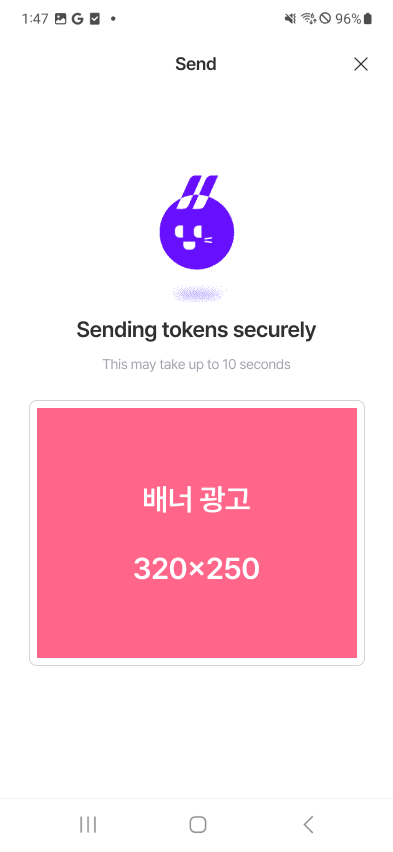
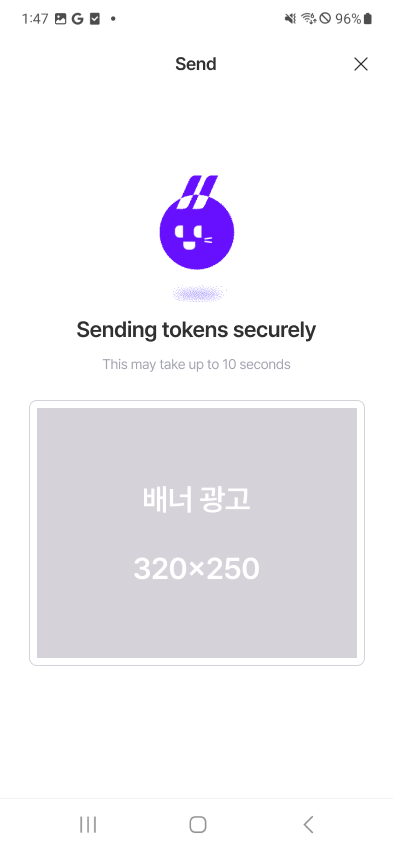
Mychain 아이콘 범례와 컴포넌트 세부 수정
- 아이콘 범례 색을 실제 색으로 맞추고 Utility를 규칙별로 나눠 정리
- Clear 아이콘 Hover를 회색 버전으로 변경, Lock 아이콘 삭제
- Input 높이 56px 통일, 토큰 아이콘을 Figma 원본으로 교체
- 전송 중 화면 배너광고 영역을 그레이로 교체
- Icon 소개 문구 수정

Changed region(s): [[0.0916, 0.4577, 0.916, 0.7934]]

diff --git a/projects/mychain.html b/projects/mychain.html
@@ -440,7 +440,7 @@
       <div class="sg-row">
         <div class="sg-head">
           <h3>Icon</h3>
-          <p>40 · 24 · 20px 세 가지 크기의 라인 아이콘을 직접 그렸습니다. 모든 아이콘에 Default · Hover · Disable 상태를 정의해, 누르는 순간 보라색으로 바뀌는 규칙을 일관되게 적용했습니다.</p>
+          <p>40 · 24 · 20px 세 가지 크기의 라인 아이콘을 직접 그렸습니다. 쓰임새에 따라 내비게이션 · 설정 · 유틸리티 · 상태 아이콘으로 나누고, 그룹마다 상태 변화 규칙을 정해 아래 범례로 정리했습니다.</p>
           <div class="ic-sizes">
             <span><i style="width:40px;height:40px"></i>40</span>
             <span><i style="width:24px;height:24px"></i>24</span>
@@ -457,9 +457,9 @@
               <div class="ic-pair"><img src="../images/mychain/svg/icons/home--home.svg" alt=""><img src="../images/mychain/svg/icons/home--home-hover.svg" alt=""><span>Home</span></div>
               <div class="ic-pair"><img src="../images/mychain/svg/icons/menu--menu.svg" alt=""><img src="../images/mychain/svg/icons/menu--menu-hover.svg" alt=""><span>Menu</span></div>
               <div class="ic-pair"><img src="../images/mychain/svg/icons/menu--close-black.svg" alt=""><img src="../images/mychain/svg/icons/menu--close-hover.svg" alt=""><span>Close</span></div>
-              <div class="ic-pair"><img src="../images/mychain/svg/icons/close-round--default2.svg" alt=""><img src="../images/mychain/svg/icons/close-round--default.svg" alt=""><span>Clear</span></div>
+              <div class="ic-pair"><img src="../images/mychain/svg/icons/close-round--default2.svg" alt=""><img src="../images/mychain/svg/icons/close-round--hover2.svg" alt=""><span>Clear</span></div>
             </div>
-            <p class="ic-legend"><span>Default</span><span>Hover</span></p>
+            <p class="ic-legend"><span style="--c:#303030">Default</span><span style="--c:#A4A4B1">Hover</span></p>
           </div>
 
           <div class="ic-card">
@@ -485,24 +485,35 @@
               <div><img src="../images/mychain/svg/icons/setting-icon--secret-phrase.svg" alt=""><b><img src="../images/mychain/svg/icons/setting-icon-hover--secret-phrase-hover.svg" alt=""></b><span>Secret Phrase</span></div>
               <div><img src="../images/mychain/svg/icons/setting-icon--remove.svg" alt=""><b><img src="../images/mychain/svg/icons/setting-icon-hover--remove-hover.svg" alt=""></b><span>Remove</span></div>
             </div>
-            <p class="ic-legend"><span>Default</span><span>Selected</span></p>
+            <p class="ic-legend"><span style="--c:#303030">Default</span><span style="--c:#8D7AFE">Selected</span></p>
           </div>
 
           <div class="ic-card">
             <p class="ic-title">Utility <small>20 · 24px</small></p>
+            <p class="ic-sub">Line · Gray → Purple</p>
             <div class="ic-pairs ic-pairs--sm">
               <div class="ic-pair"><img src="../images/mychain/svg/icons/copy--copy.svg" alt=""><img src="../images/mychain/svg/icons/copy--copy-hover.svg" alt=""><span>Copy</span></div>
               <div class="ic-pair"><img src="../images/mychain/svg/icons/arrow--down.svg" alt=""><img src="../images/mychain/svg/icons/arrow--down-hover.svg" alt=""><span>Down</span></div>
               <div class="ic-pair"><img src="../images/mychain/svg/icons/arrow--up.svg" alt=""><img src="../images/mychain/svg/icons/arrow--up-hover.svg" alt=""><span>Up</span></div>
               <div class="ic-pair"><img src="../images/mychain/svg/icons/arrow--right.svg" alt=""><img src="../images/mychain/svg/icons/arrow--right-hover.svg" alt=""><span>Right</span></div>
+              <div class="ic-pair"><img src="../images/mychain/svg/icons/new-tap--default.svg" alt=""><img src="../images/mychain/svg/icons/new-tap--variant2.svg" alt=""><span>New tab</span></div>
+              <div class="ic-pair"><img src="../images/mychain/svg/icons/connected--disconneted.svg" alt=""><img src="../images/mychain/svg/icons/connected--default.svg" alt=""><span>Link</span></div>
+            </div>
+            <p class="ic-legend"><span style="--c:#A4A4B1">Default</span><span style="--c:#6710FF">Hover</span></p>
+
+            <p class="ic-sub">Outline → Filled</p>
+            <div class="ic-pairs ic-pairs--sm">
               <div class="ic-pair"><img src="../images/mychain/svg/icons/support--default.svg" alt=""><img src="../images/mychain/svg/icons/support--hover.svg" alt=""><span>Help</span></div>
               <div class="ic-pair"><img src="../images/mychain/svg/icons/notice--default.svg" alt=""><img src="../images/mychain/svg/icons/notice--variant2.svg" alt=""><span>Notice</span></div>
-              <div class="ic-pair"><img src="../images/mychain/svg/icons/new-tap--default.svg" alt=""><img src="../images/mychain/svg/icons/new-tap--variant2.svg" alt=""><span>New tab</span></div>
               <div class="ic-pair"><img src="../images/mychain/svg/icons/change--default.svg" alt=""><img src="../images/mychain/svg/icons/change--hover.svg" alt=""><span>Change</span></div>
-              <div class="ic-pair"><img src="../images/mychain/svg/icons/eye--x.svg" alt=""><img src="../images/mychain/svg/icons/eye--o.svg" alt=""><span>Hide · Show</span></div>
-              <div class="ic-pair"><img src="../images/mychain/svg/icons/connected--disconneted.svg" alt=""><img src="../images/mychain/svg/icons/connected--default.svg" alt=""><span>Link</span></div>
+            </div>
+            <p class="ic-legend"><span style="--c:#fff;--b:#6710FF">Default</span><span style="--c:#6710FF">Hover</span></p>
+
+            <p class="ic-sub">Others</p>
+            <div class="ic-pairs ic-pairs--sm">
               <div class="ic-pair"><img src="../images/mychain/svg/icons/add-icon--variant3.svg" alt=""><img src="../images/mychain/svg/icons/add-icon--default.svg" alt=""><span>Add</span></div>
-              <div class="ic-pair"><img src="../images/mychain/svg/icons/lock-icon--default.svg" alt=""><img src="../images/mychain/svg/icons/more--default.svg" alt=""><span>Lock · More</span></div>
+              <div class="ic-pair"><img src="../images/mychain/svg/icons/eye--x.svg" alt=""><img src="../images/mychain/svg/icons/eye--o.svg" alt=""><span>Hide · Show</span></div>
+              <div class="ic-pair ic-pair--one"><img src="../images/mychain/svg/icons/more--default.svg" alt=""><span>More</span></div>
             </div>
           </div>
 
@@ -597,7 +608,7 @@
               <div class="lbtn lbtn--touch"><img src="../images/mychain/svg/icons/setting-icon--wallet-icon.svg" alt=""><b>Manage account</b><span>1 account</span><img src="../images/mychain/svg/icons/arrow--right.svg" alt=""></div>
               <div class="lbtn lbtn--sub"><img src="../images/mychain/svg/icons/setting-icon--wallet-icon.svg" alt=""><b>Manage account</b><span>1 account</span><img src="../images/mychain/svg/icons/arrow--right.svg" alt=""></div>
             </div>
-            <p class="ic-legend ic-legend--3"><span>Unselected</span><span>Touch</span><span>Sub</span></p>
+            <p class="ic-legend"><span style="--c:#EFEDF2">Unselected</span><span style="--c:#D5D2D9">Touch</span><span style="--c:#fff;--b:#5B2FF9">Sub</span></p>
           </div>
         </div>
       </div>
@@ -644,8 +655,8 @@
 
           <div class="ui-card">
             <p class="ui-label">Token list</p>
-            <div class="token"><span class="coin"></span><b>FACT</b><span class="token-amt">100 FACT</span><img src="../images/mychain/svg/icons/arrow--right.svg" alt=""></div>
-            <div class="token token--on"><span class="coin coin--m"></span><b>mFACT</b><span class="token-amt">23.5 mFACT</span><img src="../images/mychain/svg/icons/arrow--right-hover.svg" alt=""></div>
+            <div class="token"><img src="../images/mychain/svg/token-fact.svg" alt="" class="coin"><b>FACT</b><span class="token-amt">100 FACT</span><img src="../images/mychain/svg/icons/arrow--right.svg" alt=""></div>
+            <div class="token token--on"><img src="../images/mychain/svg/token-mfact.svg" alt="" class="coin"><b>mFACT</b><span class="token-amt">23.5 mFACT</span><img src="../images/mychain/svg/icons/arrow--right-hover.svg" alt=""></div>
           </div>
 
           <div class="ui-card">

diff --git a/projects/mychain.css b/projects/mychain.css
@@ -562,11 +562,10 @@
   display: inline-block;
   width: 8px; height: 8px;
   border-radius: 50%;
-  background: var(--gray-300);
+  background: var(--c, var(--gray-300));
+  box-shadow: inset 0 0 0 1px var(--b, rgba(0,0,0,0.08));
   margin-right: 6px;
 }
-.ic-legend span + span::before { background: var(--mc-secondary); }
-.ic-legend--3 span:nth-child(3)::before { background: transparent; box-shadow: inset 0 0 0 1.5px var(--mc-secondary); }
 
 .ic-pairs { display: grid; grid-template-columns: repeat(3, 1fr); gap: 10px; }
 .ic-pair {
@@ -582,6 +581,10 @@
 .ic-pair img { width: 40px; height: 40px; }
 .ic-pairs--sm .ic-pair img { width: 24px; height: 24px; }
 .ic-pair span { grid-column: 1 / -1; font-size: 11px; color: #6d6a78; }
+.ic-pair small { font-size: 10px; color: var(--gray-400); white-space: nowrap; }
+.ic-pair--one { grid-template-columns: 1fr; }
+.ic-sub { margin: 20px 0 10px; font-size: 12px; font-weight: 600; color: #6d6a78; }
+.ic-title + .ic-sub { margin-top: 4px; }
 
 .ic-set { display: grid; grid-template-columns: 1fr 1fr; gap: 8px; }
 .ic-set div {
@@ -741,7 +744,8 @@
   align-items: center;
   justify-content: space-between;
   gap: 8px;
-  padding: 12px 14px;
+  height: 56px;
+  padding: 0 14px;
   border-radius: 8px;
   background: #fff;
   box-shadow: inset 0 0 0 1px var(--gray-300);
@@ -755,7 +759,7 @@
 .field .ph { color: var(--gray-400); }
 .field--focus { box-shadow: inset 0 0 0 1.5px var(--mc-primary); }
 .field--error { box-shadow: inset 0 0 0 1.5px #FF668A; }
-.field--sm { padding: 9px 12px; font-size: 12px; background: var(--gray-100); box-shadow: none; }
+.field--sm { height: auto; padding: 9px 12px; font-size: 12px; background: var(--gray-100); box-shadow: none; }
 .field-msg { font-size: 11px; color: #FF668A; }
 
 .token {
@@ -772,20 +776,7 @@
 .token img { width: 20px; height: 20px; }
 .token-amt { color: #303030; }
 .token--on { box-shadow: inset 0 0 0 1.5px var(--mc-primary); }
-.coin {
-  width: 28px; height: 28px;
-  border-radius: 50%;
-  background: #303030;
-  position: relative;
-}
-.coin::after {
-  content: "";
-  position: absolute;
-  left: 7px; right: 7px; top: 12px; height: 5px;
-  border-radius: 0 0 8px 8px;
-  background: #fff;
-}
-.coin--m { background-color: var(--mc-primary); }
+.token .coin { width: 28px; height: 28px; display: block; }
 
 .sum {
   border-radius: 10px;
